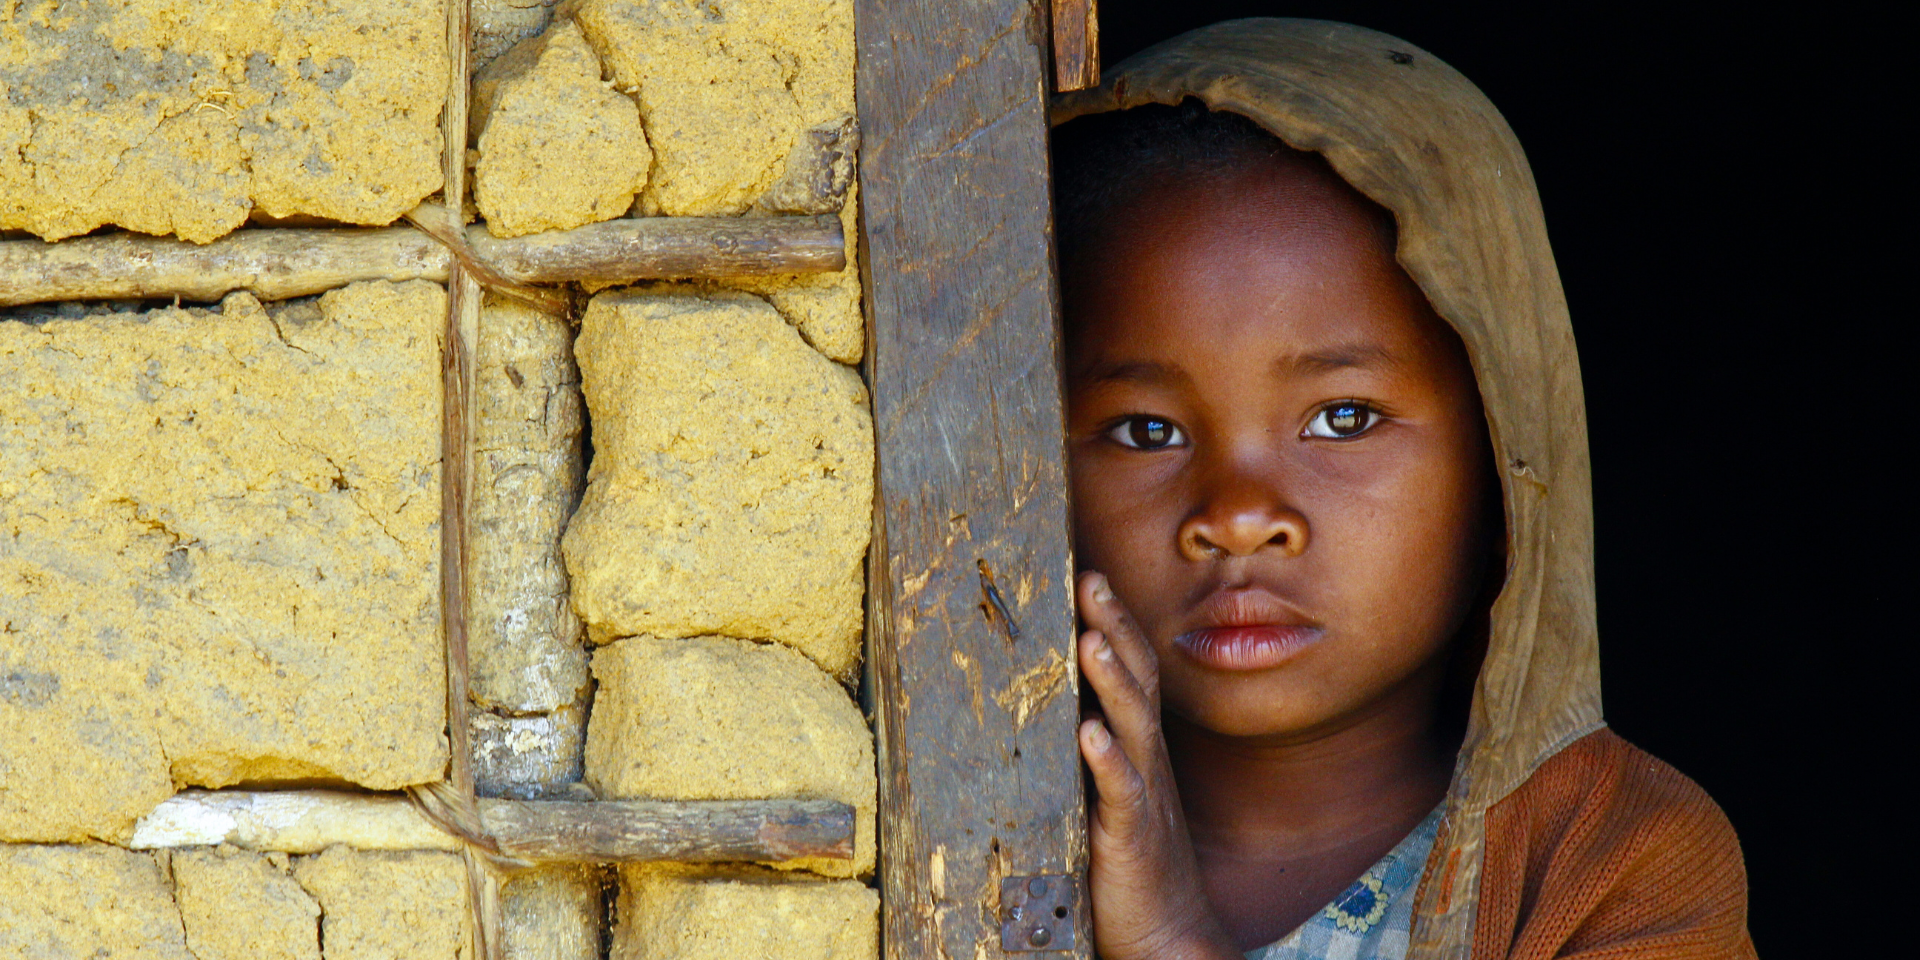
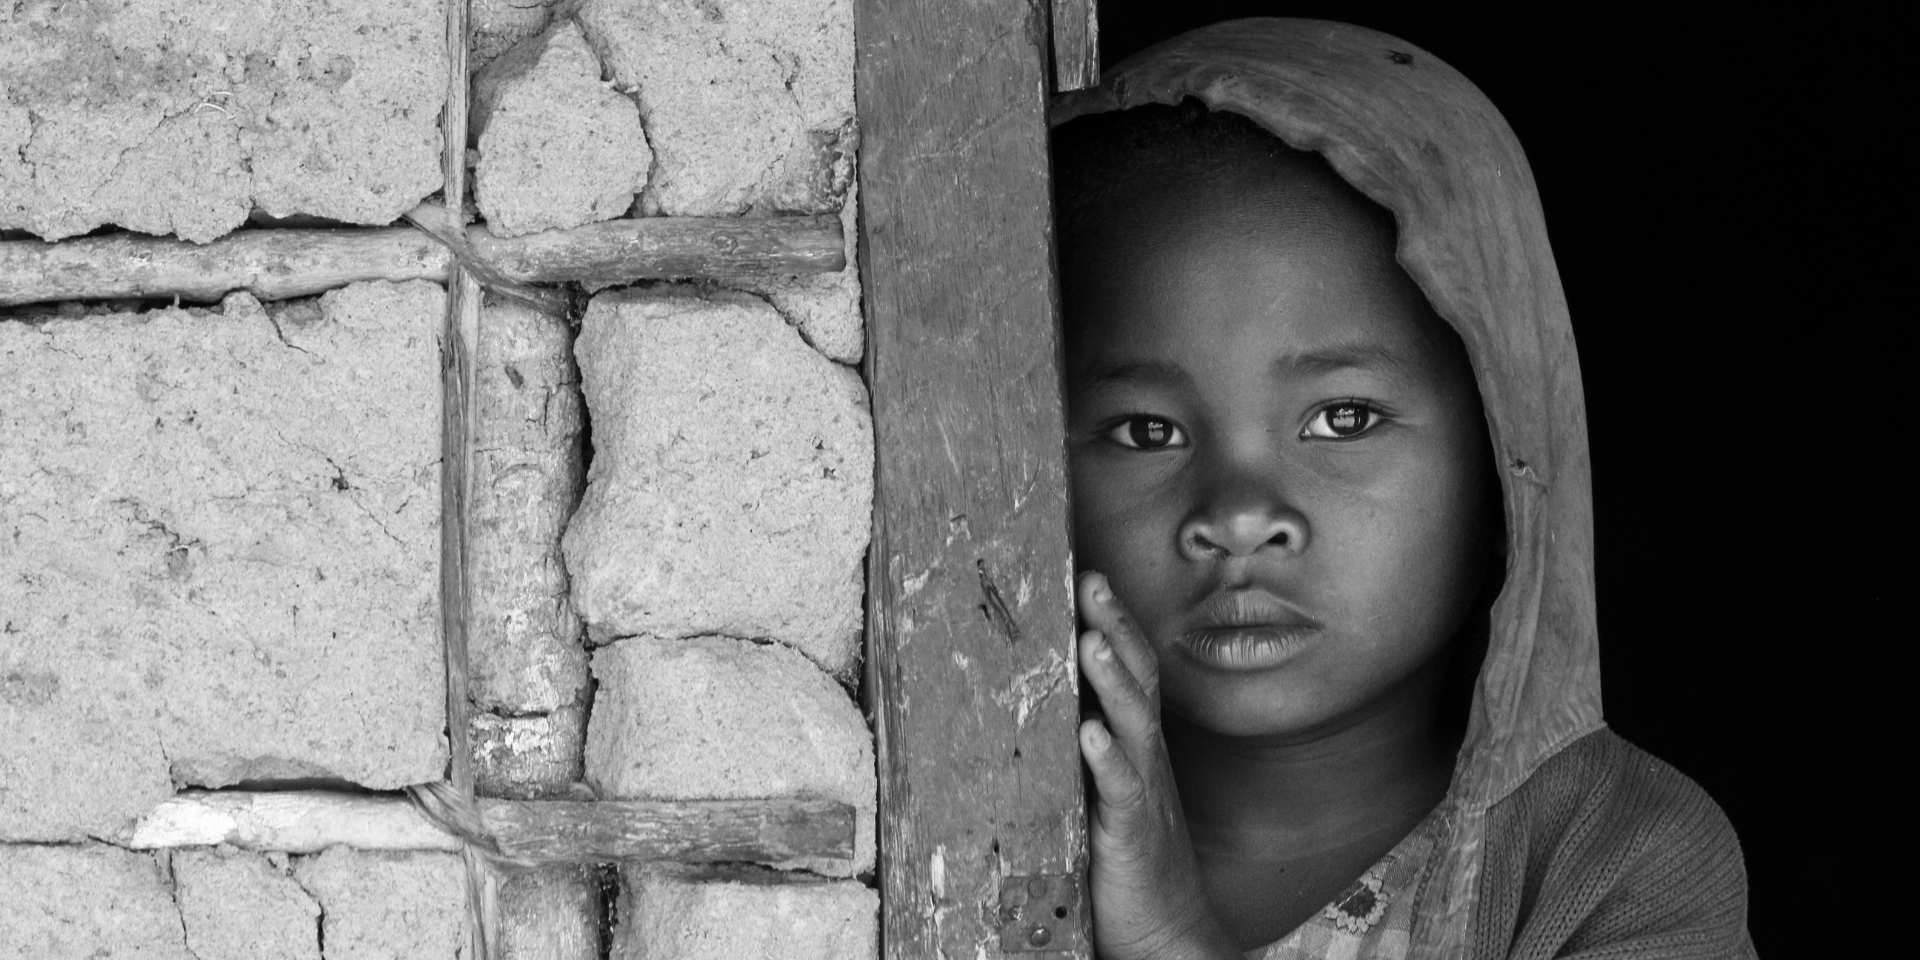
changes

diff --git a/index.html b/index.html
@@ -29,6 +29,7 @@
       crossorigin="anonymous"
       referrerpolicy="no-referrer"
     />
+    <link href="/website/css/uicons-outline-rounded.css" />
     <!-- HTML5 shim and Respond.js for IE8 support of HTML5 elements and media queries -->
     <!--[if lt IE 9]>
       <script src="https://oss.maxcdn.com/html5shiv/3.7.3/html5shiv.min.js"></script>
@@ -210,7 +211,7 @@
           <div class="slide">
             <div class="container">
               <img
-                src="assets/images/slider/slide-3.png"
+                src="assets/images/slider/slide-4.png"
                 alt
                 class="slider-bg"
               />
@@ -240,9 +241,10 @@
           <div class="slide">
             <div class="container">
               <img
-                src="assets/images/slider/slide-4.png"
+                src="assets/images/slider/slide-3.png"
                 alt
                 class="slider-bg"
+                style="filter: grayscale(10%)"
               />
               <div class="col col-md-6 slide-caption">
                 <div class="slide-title">
@@ -275,33 +277,33 @@
             <div class="col-lg-4 col-md-6 col-sm-6">
               <div class="features-item-2">
                 <div class="features-icon">
-                  <i class="fi flaticon-salad"></i>
+                  <i class="fi flaticon-website-development"></i>
                 </div>
                 <div class="features-content">
-                  <p>Health for</p>
-                  <h3>Healthy Food</h3>
+                  <p>Technical Support</p>
+                  <h3>Website Design and Development</h3>
                 </div>
               </div>
             </div>
             <div class="col-lg-4 col-md-6 col-sm-6">
               <div class="features-item-2">
                 <div class="features-icon">
-                  <i class="fi flaticon-school"></i>
+                  <i class="fi flaticon-legal"></i>
                 </div>
                 <div class="features-content">
-                  <p>Get Free</p>
-                  <h3>Pure Education</h3>
+                  <p>Legal Support</p>
+                  <h3>Compilances and Documents</h3>
                 </div>
               </div>
             </div>
             <div class="col-lg-4 col-md-6 col-sm-6">
               <div class="features-item-2">
                 <div class="features-icon">
-                  <i class="fi flaticon-medicine"></i>
+                  <i class="fi flaticon-marketing"></i>
                 </div>
                 <div class="features-content">
-                  <p>Get Free</p>
-                  <h3>Medical Facility</h3>
+                  <p>Publicity</p>
+                  <h3>Marketing and Outreach</h3>
                 </div>
               </div>
             </div>
@@ -453,66 +455,6 @@
                 </div>
               </div>
             </div>
-            <!-- <div class="col-lg-4 col-md-6 col-sm-6 col-12">
-                        <div class="cause-item">
-                            <div class="cause-top">
-                                <div class="cause-img">
-                                    <img src="assets/images/cause/img-4.png" alt="">
-                                    <div class="case-btn">
-                                        <a href="donate.html" class="theme-btn">Donate Now</a>
-                                    </div>
-                                </div>
-                            </div>
-                            <div class="cause-text">
-                                <ul>
-                                    <li><a href="#">GOAL : $9860</a></li>
-                                    <li><a href="#">RISED : $768</a></li>
-                                </ul>
-                                <h3><a href="Services.html">Food And Home for Children</a></h3>
-                                <p>It is a long established fact that a reader will be distracted.</p>
-                            </div>
-                        </div>
-                    </div>
-                    <div class="col-lg-4 col-md-6 col-sm-6 col-12">
-                        <div class="cause-item">
-                            <div class="cause-top">
-                                <div class="cause-img">
-                                    <img src="assets/images/cause/img-5.png" alt="">
-                                    <div class="case-btn">
-                                        <a href="donate.html" class="theme-btn">Donate Now</a>
-                                    </div>
-                                </div>
-                            </div>
-                            <div class="cause-text">
-                                <ul>
-                                    <li><a href="#">GOAL : $9860</a></li>
-                                    <li><a href="#">RISED : $768</a></li>
-                                </ul>
-                                <h3><a href="Services.html">Pure Water For The World</a></h3>
-                                <p>It is a long established fact that a reader will be distracted.</p>
-                            </div>
-                        </div>
-                    </div>
-                    <div class="col-lg-4 col-md-6 col-sm-6 col-12">
-                        <div class="cause-item">
-                            <div class="cause-top">
-                                <div class="cause-img">
-                                    <img src="assets/images/cause/img-6.png" alt="">
-                                    <div class="case-btn">
-                                        <a href="donate.html" class="theme-btn">Donate Now</a>
-                                    </div>
-                                </div>
-                            </div>
-                            <div class="cause-text">
-                                <ul>
-                                    <li><a href="#">GOAL : $9860</a></li>
-                                    <li><a href="#">RISED : $768</a></li>
-                                </ul>
-                                <h3><a href="Services.html">Recycling For Charity</a></h3>
-                                <p>It is a long established fact that a reader will be distracted.</p>
-                            </div>
-                        </div>
-                    </div> -->
           </div>
         </div>
       </div>
@@ -762,7 +704,7 @@
               <div class="event-grids clearfix">
                 <div class="grid">
                   <div class="img-holder">
-                    <img src="assets/images/event/img-1.jpg" alt />
+                    <img src="./assets/images/event/event-1.jpg" alt />
                   </div>
                   <div class="details">
                     <ul class="entry-meta">
@@ -774,15 +716,13 @@
                       </li>
                     </ul>
                     <h3>
-                      <a href="event-single.html"
-                        >Udaan – Building Digital Identity for NGOs</a
-                      >
+                      <a href="#">Udaan – Building Digital Identity for NGOs</a>
                     </h3>
                   </div>
                 </div>
                 <div class="grid">
                   <div class="img-holder">
-                    <img src="assets/images/event/img-2.jpg" alt />
+                    <img src="./assets/images/event/event-2.jpg" alt />
                   </div>
                   <div class="details">
                     <ul class="entry-meta">
@@ -796,15 +736,13 @@
                       </li>
                     </ul>
                     <h3>
-                      <a href="event-single.html"
-                        >Aarambh – Dharanam’s National NGO Summit</a
-                      >
+                      <a href="#">Aarambh – Dharanam’s National NGO Summit</a>
                     </h3>
                   </div>
                 </div>
                 <div class="grid">
-                  <div class="img-holder">
-                    <img src="assets/images/event/img-3.jpg" alt />
+                  <div class="img-holder event-img">
+                    <img src="./assets/images/event/event-3.jpg" alt />
                   </div>
                   <div class="details">
                     <ul class="entry-meta">
@@ -815,7 +753,9 @@
                         <a href="#"><i class="ti-folder"></i> Treatment</a>
                       </li>
                     </ul>
-                    <h3><a href="event-single.html">Free Treatment</a></h3>
+                    <h3>
+                      <a href="#">Free Treatment to the Needy</a>
+                    </h3>
                   </div>
                 </div>
               </div>

diff --git a/about.html b/about.html
@@ -239,10 +239,10 @@
                   </div>
                 </div>
                 <div class="cause-text">
-                  <ul>
+                  <!--  <ul>
                     <li><a href="#">GOAL : $9860</a></li>
                     <li><a href="#">RISED : $768</a></li>
-                  </ul>
+                  </ul> -->
                   <h3>
                     <a href="Services.html">Financial Help for Poor Families</a>
                   </h3>
@@ -264,10 +264,10 @@
                   </div>
                 </div>
                 <div class="cause-text">
-                  <ul>
+                  <!--    <ul>
                     <li><a href="#">GOAL : $9860</a></li>
                     <li><a href="#">RISED : $768</a></li>
-                  </ul>
+                  </ul> -->
                   <h3>
                     <a href="Services.html">Education for Poor Children</a>
                   </h3>
@@ -289,10 +289,10 @@
                   </div>
                 </div>
                 <div class="cause-text">
-                  <ul>
+                  <!--  <ul>
                     <li><a href="#">GOAL : $9860</a></li>
                     <li><a href="#">RISED : $768</a></li>
-                  </ul>
+                  </ul> -->
                   <h3>
                     <a href="Services.html">Send Child to School for a Year</a>
                   </h3>
@@ -314,10 +314,10 @@
                   </div>
                 </div>
                 <div class="cause-text">
-                  <ul>
+                  <!--  <ul>
                     <li><a href="#">GOAL : $9860</a></li>
                     <li><a href="#">RISED : $768</a></li>
-                  </ul>
+                  </ul> -->
                   <h3>
                     <a href="Services.html">Food And Home for Children</a>
                   </h3>
@@ -339,10 +339,10 @@
                   </div>
                 </div>
                 <div class="cause-text">
-                  <ul>
+                  <!--  <ul>
                     <li><a href="#">GOAL : $9860</a></li>
                     <li><a href="#">RISED : $768</a></li>
-                  </ul>
+                  </ul> -->
                   <h3><a href="Services.html">Pure Water For The World</a></h3>
                   <p>
                     It is a long established fact that a reader will be
@@ -362,10 +362,10 @@
                   </div>
                 </div>
                 <div class="cause-text">
-                  <ul>
+                  <!--   <ul>
                     <li><a href="#">GOAL : $9860</a></li>
                     <li><a href="#">RISED : $768</a></li>
-                  </ul>
+                  </ul> -->
                   <h3><a href="Services.html">Recycling For Charity</a></h3>
                   <p>
                     It is a long established fact that a reader will be

diff --git a/assets/css/style.css b/assets/css/style.css
@@ -3708,7 +3708,7 @@ hero-style3
 .tp-site-footer-2 .tp-lower-footer {
   text-align: center;
   position: relative;
-  background: #ffffff;
+  background: #2f2d2d;
 }
 
 .tp-site-footer .tp-lower-footer .row,
@@ -3964,6 +3964,7 @@ ul {
   color: #c3bfbf;
   font-size: 24px;
   margin-top: 5px;
+  margin-right: 5px;
 }
 
 .features-area .features-content p {
